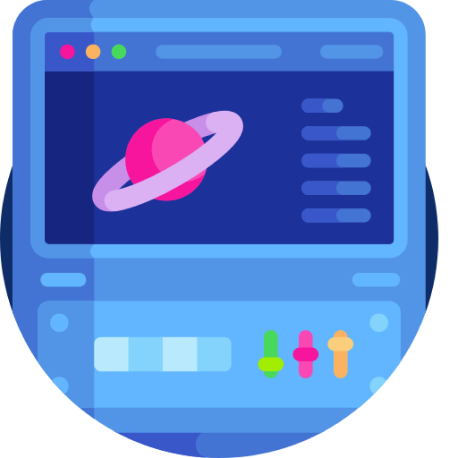
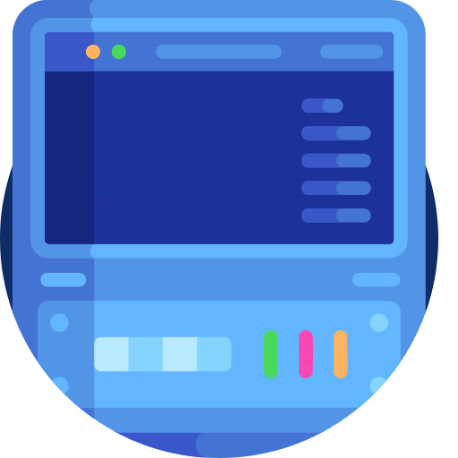
layout atualizado

Changed region(s): [[0.1834, 0.2445, 0.5502, 0.4585], [0.5502, 0.7336, 0.7948, 0.8253], [0.1223, 0.0917, 0.1834, 0.1528]]

diff --git a/assets/css/style.css b/assets/css/style.css
@@ -6,9 +6,14 @@
     box-sizing: border-box;
 }
 
+html {
+    scroll-behavior: smooth;
+}
+
 body {
     font-family: 'Open Sans', sans-serif;
     overflow-x: hidden;
+    max-width: 100%;
 }
 
 .select-disable {
@@ -21,14 +26,18 @@ body {
 
 .header {
     height: 97vh;
-    padding-top: 16px;
+    background-image: url("../img/background.svg");
+    background-size: cover;
+    background-repeat: no-repeat;
+    background-attachment: fixed;
+    padding-top: 22px;
+    background-position: 24% 24%;
 }
 
-.background {
-    position: absolute;
-    top: -10%;
-    width: 100vw;
-    z-index: -1;
+.content-header {
+    display: flex;
+    justify-content: space-around;
+    margin-top: 22vh;
 }
 
 .navbar {
@@ -36,10 +45,13 @@ body {
     justify-content: space-around;
     align-items: center;
     height: 7vh;
+    position: fixed;
+    width: 100vw;
 }
 
 .logo-navbar {
     max-height: 100%;
+    pointer-events: none;
 }
 
 .navbar-list {
@@ -73,4 +85,160 @@ body {
 .navbar-links {
     text-decoration: none;
     color: #FFFFFF;
+}
+
+.titulo-header,
+.descricao-header {
+    color: #fff;
+}
+
+.btn-header {
+    background-color: #266ef3;
+    color: #fff;
+    border: 1px solid #266ef3;
+    width: 150px;
+    padding-top: 5px;
+    padding-bottom: 5px;
+    border-radius: 50px;
+    margin-top: 20px;
+    cursor: pointer;
+}
+
+.btn-header:hover {
+    background-color: #fff;
+    color: #266ef3;
+    transition: .4s;
+}
+
+.imgs-top {
+    width: 325px;
+    height: 325px;
+    max-width: 325px;
+    max-height: 325px;
+    pointer-events: none;
+}
+
+.computador-top {
+    max-width: 325px;
+    position: absolute;
+}
+
+.planeta-top {
+    max-width: 325px;
+    position: absolute;
+}
+
+.floating {
+    animation-name: floating;
+    animation-duration: 3s;
+    animation-iteration-count: infinite;
+    animation-timing-function: ease-in-out;
+}
+
+@keyframes floating {
+    0% {
+        transform: translate(0, -10px);
+    }
+
+    50% {
+        transform: translate(0, 15px);
+    }
+
+    100% {
+        transform: translate(0, -10px);
+    }
+}
+
+.alavancas {
+    max-width: 325px;
+    position: absolute;
+}
+
+.green-lever {
+    animation-name: green-lever;
+    animation-duration: 5s;
+    animation-iteration-count: infinite;
+    animation-timing-function: ease-in-out;
+}
+
+@keyframes green-lever {
+    0% {
+        transform: translate(0, 0);
+    }
+
+    50% {
+        transform: translate(0, -20px);
+    }
+
+    100% {
+        transform: translate(0, 0);
+    }
+}
+
+.red-lever {
+    animation-name: red-lever;
+    animation-duration: 2s;
+    animation-iteration-count: infinite;
+    animation-timing-function: ease-in-out;
+}
+
+@keyframes red-lever {
+    0% {
+        transform: translate(0, -10px);
+    }
+
+    50% {
+        transform: translate(0, 10px);
+    }
+
+    100% {
+        transform: translate(0, -10px);
+    }
+}
+
+.yellow-lever {
+    animation-name: yellow-lever;
+    animation-duration: 3s;
+    animation-iteration-count: infinite;
+    animation-timing-function: ease-in-out;
+}
+
+@keyframes yellow-lever {
+    0% {
+        transform: translate(0, 0);
+    }
+
+    50% {
+        transform: translate(0, 20px);
+    }
+
+    100% {
+        transform: translate(0, 0);
+    }
+}
+
+.luzes {
+    max-width: 325px;
+    position: absolute;
+}
+
+.red-light {
+    animation-name: red-light;
+    animation-duration: 1.5s;
+    animation-iteration-count: infinite;
+    animation-timing-function: ease-in-out;
+}
+
+@keyframes red-light {
+    0% {
+        opacity: 1;
+    }
+
+    50% {
+        opacity: 0;
+    }
+
+    100% {
+        opacity: 1;
+    }
 }

diff --git a/index.html b/index.html
@@ -13,7 +13,7 @@
     <header class="header">
 
         <nav class="navbar">
-            <a href="index.html"><img src="assets/img/logo.png" alt="" class="logo-navbar"></a>
+            <img src="assets/img/logo.png" alt="" class="logo-navbar">
             <ul class="navbar-list">
                 <li class="navbar-list-item"><a href="#servicos" class="navbar-links bottom_animation">Serviços</a></li>
                 <li class="navbar-list-item"><a href="#projetos" class="navbar-links bottom_animation">Projetos</a></li>
@@ -22,7 +22,21 @@
             </ul>
         </nav>
 
-        <img class="background" src="assets/img/background.svg">
+        <div class="content-header">
+            <div>
+                <h1 class="titulo-header">Bem-vindo...</h1>
+                <p class="descricao-header">Texto sobre a empresa</p>
+                <button class="btn-header">Botão ver mais</button>
+            </div>
+            <div class="imgs-top">
+                <img src="assets/img/computador-top.png" class="computador-top">
+                <img src="assets/img/planeta-top.png" class="planeta-top floating">
+                <img src="assets/img/alavanca-verde-top.png" class="alavancas green-lever">
+                <img src="assets/img/alavanca-vermelha-top.png" class="alavancas red-lever">
+                <img src="assets/img/alavanca-amarela-top.png" class="alavancas yellow-lever">
+                <img src="assets/img/luz-vermelha.png" class="luzes red-light">
+            </div>
+        </div>
 
     </header>
 
